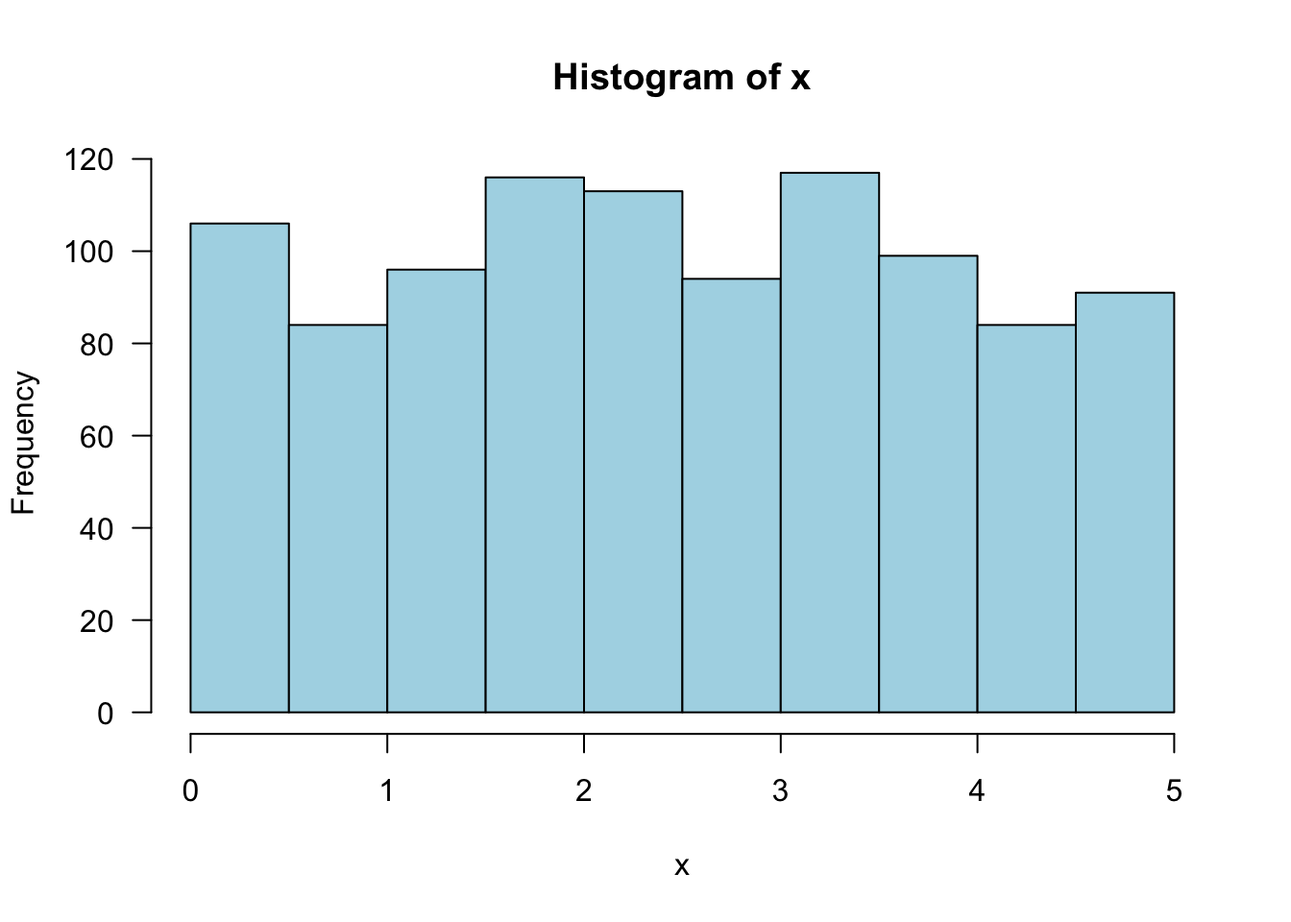
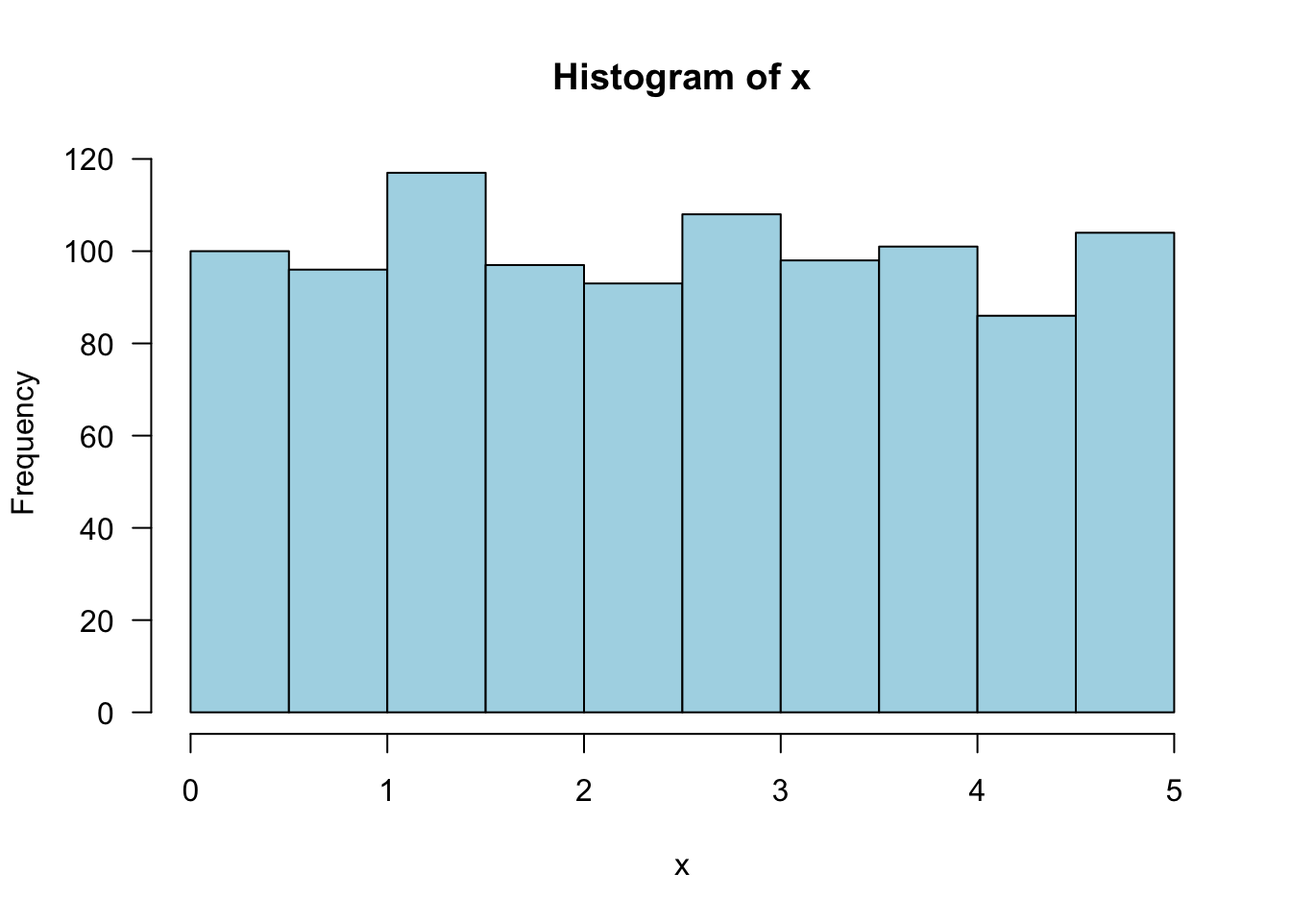
jtr13 published a site update

Changed region(s): [[0.125, 0.1875, 0.7812, 0.375], [0.75, 0.25, 0.9375, 0.375]]

diff --git a/index.html b/index.html
@@ -138,11 +138,11 @@ code span.wa { color: #60a0b0; font-weight: bold; font-style: italic; } /* Warni
 <li class="chapter" data-level="" data-path="index.html"><a href="index.html#general-study-tips"><i class="fa fa-check"></i>General study tips</a></li>
 <li class="chapter" data-level="" data-path="index.html"><a href="index.html#installing-r"><i class="fa fa-check"></i>Installing R</a></li>
 <li class="chapter" data-level="" data-path="index.html"><a href="index.html#getting-started-with-r-working-in-the-console"><i class="fa fa-check"></i>Getting Started with R: Working in the Console</a><ul>
-<li class="chapter" data-level="0.0.1" data-path="index.html"><a href="index.html#watch-the-video"><i class="fa fa-check"></i><b>0.0.1</b> Watch the video</a></li>
-<li class="chapter" data-level="0.0.2" data-path="index.html"><a href="index.html#quick-review-of-material-covered-in-the-video-plus-additional-examples"><i class="fa fa-check"></i><b>0.0.2</b> Quick review of material covered in the video, plus additional examples</a></li>
-<li class="chapter" data-level="0.0.3" data-path="index.html"><a href="index.html#more-examples"><i class="fa fa-check"></i><b>0.0.3</b> More examples</a></li>
+<li class="chapter" data-level="" data-path="index.html"><a href="index.html#watch-the-video"><i class="fa fa-check"></i>Watch the video</a></li>
+<li class="chapter" data-level="" data-path="index.html"><a href="index.html#quick-review-of-material-covered-in-the-video-plus-additional-examples"><i class="fa fa-check"></i>Quick review of material covered in the video, plus additional examples</a></li>
+<li class="chapter" data-level="" data-path="index.html"><a href="index.html#more-examples"><i class="fa fa-check"></i>More examples</a></li>
 </ul></li>
-<li class="chapter" data-level="0.1" data-path="index.html"><a href="index.html#saving-your-work"><i class="fa fa-check"></i><b>0.1</b> Saving your work</a><ul>
+<li class="chapter" data-level="" data-path="index.html"><a href="index.html#saving-your-work"><i class="fa fa-check"></i>Saving your work</a><ul>
 <li class="chapter" data-level="" data-path="index.html"><a href="index.html#saving-code-as-an-.r-file"><i class="fa fa-check"></i>Saving code as an .R file</a></li>
 <li class="chapter" data-level="" data-path="index.html"><a href="index.html#convert-.r-file-to-.html"><i class="fa fa-check"></i>Convert .R file to .html</a></li>
 <li class="chapter" data-level="" data-path="index.html"><a href="index.html#save-code-and-text-as-.rmd-convert-to-.html"><i class="fa fa-check"></i>Save code and text as .Rmd, convert to .html</a></li>
@@ -308,13 +308,13 @@ code span.wa { color: #60a0b0; font-weight: bold; font-style: italic; } /* Warni
 <div id="getting-started-with-r-working-in-the-console" class="section level2 unnumbered">
 <h2>Getting Started with R: Working in the Console</h2>
 <p>The first step in getting started is getting comfortable working in the RStudio console. It works like a calculator in the sense that your work is not saved. Do the following:</p>
-<div id="watch-the-video" class="section level3">
-<h3><span class="header-section-number">0.0.1</span> Watch the video</h3>
+<div id="watch-the-video" class="section level3 unnumbered">
+<h3>Watch the video</h3>
 <iframe width="560" height="315" src="https://www.youtube.com/embed/tQvtYdLvSSg" frameborder="0" allow="accelerometer; autoplay; encrypted-media; gyroscope; picture-in-picture" allowfullscreen>
 </iframe>
 </div>
-<div id="quick-review-of-material-covered-in-the-video-plus-additional-examples" class="section level3">
-<h3><span class="header-section-number">0.0.2</span> Quick review of material covered in the video, plus additional examples</h3>
+<div id="quick-review-of-material-covered-in-the-video-plus-additional-examples" class="section level3 unnumbered">
+<h3>Quick review of material covered in the video, plus additional examples</h3>
 <p>Working in the console pane is similar to a using a calculator: each line of code is executed when you press enter. Note that your work is not saved with this approach.</p>
 <p><img src="images/R1.png" /></p>
 <p>Assigning a variable</p>
@@ -349,13 +349,13 @@ code span.wa { color: #60a0b0; font-weight: bold; font-style: italic; } /* Warni
 <div class="sourceCode" id="cb21"><pre class="sourceCode r"><code class="sourceCode r"><span id="cb21-1"><a href="index.html#cb21-1"></a><span class="kw">sum</span>(x<span class="op">*</span>px)</span></code></pre></div>
 <pre><code>## [1] 3.5</code></pre>
 </div>
-<div id="more-examples" class="section level3">
-<h3><span class="header-section-number">0.0.3</span> More examples</h3>
+<div id="more-examples" class="section level3 unnumbered">
+<h3>More examples</h3>
 <p>Read and try the examples in <a href="https://monashdatafluency.github.io/r-intro-2/starting-out-in-r.html" target="_blank">Chapter 1 of Introduction to R</a></p>
 </div>
 </div>
-<div id="saving-your-work" class="section level2">
-<h2><span class="header-section-number">0.1</span> Saving your work</h2>
+<div id="saving-your-work" class="section level2 unnumbered">
+<h2>Saving your work</h2>
 <div id="saving-code-as-an-.r-file" class="section level3 unnumbered">
 <h3>Saving code as an .R file</h3>
 <p><strong>Video</strong></p>

diff --git a/ch-4-continuous-random-variables-and-probability-distributions.html b/ch-4-continuous-random-variables-and-probability-distributions.html
@@ -138,11 +138,11 @@ code span.wa { color: #60a0b0; font-weight: bold; font-style: italic; } /* Warni
 <li class="chapter" data-level="" data-path="index.html"><a href="index.html#general-study-tips"><i class="fa fa-check"></i>General study tips</a></li>
 <li class="chapter" data-level="" data-path="index.html"><a href="index.html#installing-r"><i class="fa fa-check"></i>Installing R</a></li>
 <li class="chapter" data-level="" data-path="index.html"><a href="index.html#getting-started-with-r-working-in-the-console"><i class="fa fa-check"></i>Getting Started with R: Working in the Console</a><ul>
-<li class="chapter" data-level="0.0.1" data-path="index.html"><a href="index.html#watch-the-video"><i class="fa fa-check"></i><b>0.0.1</b> Watch the video</a></li>
-<li class="chapter" data-level="0.0.2" data-path="index.html"><a href="index.html#quick-review-of-material-covered-in-the-video-plus-additional-examples"><i class="fa fa-check"></i><b>0.0.2</b> Quick review of material covered in the video, plus additional examples</a></li>
-<li class="chapter" data-level="0.0.3" data-path="index.html"><a href="index.html#more-examples"><i class="fa fa-check"></i><b>0.0.3</b> More examples</a></li>
+<li class="chapter" data-level="" data-path="index.html"><a href="index.html#watch-the-video"><i class="fa fa-check"></i>Watch the video</a></li>
+<li class="chapter" data-level="" data-path="index.html"><a href="index.html#quick-review-of-material-covered-in-the-video-plus-additional-examples"><i class="fa fa-check"></i>Quick review of material covered in the video, plus additional examples</a></li>
+<li class="chapter" data-level="" data-path="index.html"><a href="index.html#more-examples"><i class="fa fa-check"></i>More examples</a></li>
 </ul></li>
-<li class="chapter" data-level="0.1" data-path="index.html"><a href="index.html#saving-your-work"><i class="fa fa-check"></i><b>0.1</b> Saving your work</a><ul>
+<li class="chapter" data-level="" data-path="index.html"><a href="index.html#saving-your-work"><i class="fa fa-check"></i>Saving your work</a><ul>
 <li class="chapter" data-level="" data-path="index.html"><a href="index.html#saving-code-as-an-.r-file"><i class="fa fa-check"></i>Saving code as an .R file</a></li>
 <li class="chapter" data-level="" data-path="index.html"><a href="index.html#convert-.r-file-to-.html"><i class="fa fa-check"></i>Convert .R file to .html</a></li>
 <li class="chapter" data-level="" data-path="index.html"><a href="index.html#save-code-and-text-as-.rmd-convert-to-.html"><i class="fa fa-check"></i>Save code and text as .Rmd, convert to .html</a></li>
@@ -275,11 +275,11 @@ code span.wa { color: #60a0b0; font-weight: bold; font-style: italic; } /* Warni
 <p>Randomly choose one number from the distribution:</p>
 <p><span class="math inline">\(f(x) = .2\)</span> for <span class="math inline">\(0 \leq x \leq 5\)</span>, 0 otherwise.</p>
 <div class="sourceCode" id="cb149"><pre class="sourceCode r"><code class="sourceCode r"><span id="cb149-1"><a href="ch-4-continuous-random-variables-and-probability-distributions.html#cb149-1"></a><span class="kw">runif</span>(<span class="dt">n =</span> <span class="dv">1</span>, <span class="dt">min =</span> <span class="dv">0</span>, <span class="dt">max =</span> <span class="dv">5</span>)</span></code></pre></div>
-<pre><code>## [1] 4.080253</code></pre>
+<pre><code>## [1] 4.563227</code></pre>
 <p>Take the average of 1000 picks:</p>
 <div class="sourceCode" id="cb151"><pre class="sourceCode r"><code class="sourceCode r"><span id="cb151-1"><a href="ch-4-continuous-random-variables-and-probability-distributions.html#cb151-1"></a>x &lt;-<span class="st"> </span><span class="kw">runif</span>(<span class="dt">n =</span> <span class="dv">1000</span>, <span class="dt">min =</span> <span class="dv">0</span>, <span class="dt">max =</span> <span class="dv">5</span>)</span>
 <span id="cb151-2"><a href="ch-4-continuous-random-variables-and-probability-distributions.html#cb151-2"></a><span class="kw">mean</span>(x)</span></code></pre></div>
-<pre><code>## [1] 2.464531</code></pre>
+<pre><code>## [1] 2.478542</code></pre>
 <p>Draw a histogram of the 1000 picks:</p>
 <div class="sourceCode" id="cb153"><pre class="sourceCode r"><code class="sourceCode r"><span id="cb153-1"><a href="ch-4-continuous-random-variables-and-probability-distributions.html#cb153-1"></a><span class="kw">hist</span>(x, <span class="dt">las =</span> <span class="dv">1</span>, <span class="dt">col =</span> <span class="st">&quot;lightblue&quot;</span>)</span></code></pre></div>
 <p><img src="STAT1201-resource_files/figure-html/unnamed-chunk-41-1.png" width="672" /></p>

diff --git a/ch-1-descriptive-statistics.html b/ch-1-descriptive-statistics.html
@@ -138,11 +138,11 @@ code span.wa { color: #60a0b0; font-weight: bold; font-style: italic; } /* Warni
 <li class="chapter" data-level="" data-path="index.html"><a href="index.html#general-study-tips"><i class="fa fa-check"></i>General study tips</a></li>
 <li class="chapter" data-level="" data-path="index.html"><a href="index.html#installing-r"><i class="fa fa-check"></i>Installing R</a></li>
 <li class="chapter" data-level="" data-path="index.html"><a href="index.html#getting-started-with-r-working-in-the-console"><i class="fa fa-check"></i>Getting Started with R: Working in the Console</a><ul>
-<li class="chapter" data-level="0.0.1" data-path="index.html"><a href="index.html#watch-the-video"><i class="fa fa-check"></i><b>0.0.1</b> Watch the video</a></li>
-<li class="chapter" data-level="0.0.2" data-path="index.html"><a href="index.html#quick-review-of-material-covered-in-the-video-plus-additional-examples"><i class="fa fa-check"></i><b>0.0.2</b> Quick review of material covered in the video, plus additional examples</a></li>
-<li class="chapter" data-level="0.0.3" data-path="index.html"><a href="index.html#more-examples"><i class="fa fa-check"></i><b>0.0.3</b> More examples</a></li>
+<li class="chapter" data-level="" data-path="index.html"><a href="index.html#watch-the-video"><i class="fa fa-check"></i>Watch the video</a></li>
+<li class="chapter" data-level="" data-path="index.html"><a href="index.html#quick-review-of-material-covered-in-the-video-plus-additional-examples"><i class="fa fa-check"></i>Quick review of material covered in the video, plus additional examples</a></li>
+<li class="chapter" data-level="" data-path="index.html"><a href="index.html#more-examples"><i class="fa fa-check"></i>More examples</a></li>
 </ul></li>
-<li class="chapter" data-level="0.1" data-path="index.html"><a href="index.html#saving-your-work"><i class="fa fa-check"></i><b>0.1</b> Saving your work</a><ul>
+<li class="chapter" data-level="" data-path="index.html"><a href="index.html#saving-your-work"><i class="fa fa-check"></i>Saving your work</a><ul>
 <li class="chapter" data-level="" data-path="index.html"><a href="index.html#saving-code-as-an-.r-file"><i class="fa fa-check"></i>Saving code as an .R file</a></li>
 <li class="chapter" data-level="" data-path="index.html"><a href="index.html#convert-.r-file-to-.html"><i class="fa fa-check"></i>Convert .R file to .html</a></li>
 <li class="chapter" data-level="" data-path="index.html"><a href="index.html#save-code-and-text-as-.rmd-convert-to-.html"><i class="fa fa-check"></i>Save code and text as .Rmd, convert to .html</a></li>

diff --git a/ch-12-linear-regression.html b/ch-12-linear-regression.html
@@ -138,11 +138,11 @@ code span.wa { color: #60a0b0; font-weight: bold; font-style: italic; } /* Warni
 <li class="chapter" data-level="" data-path="index.html"><a href="index.html#general-study-tips"><i class="fa fa-check"></i>General study tips</a></li>
 <li class="chapter" data-level="" data-path="index.html"><a href="index.html#installing-r"><i class="fa fa-check"></i>Installing R</a></li>
 <li class="chapter" data-level="" data-path="index.html"><a href="index.html#getting-started-with-r-working-in-the-console"><i class="fa fa-check"></i>Getting Started with R: Working in the Console</a><ul>
-<li class="chapter" data-level="0.0.1" data-path="index.html"><a href="index.html#watch-the-video"><i class="fa fa-check"></i><b>0.0.1</b> Watch the video</a></li>
-<li class="chapter" data-level="0.0.2" data-path="index.html"><a href="index.html#quick-review-of-material-covered-in-the-video-plus-additional-examples"><i class="fa fa-check"></i><b>0.0.2</b> Quick review of material covered in the video, plus additional examples</a></li>
-<li class="chapter" data-level="0.0.3" data-path="index.html"><a href="index.html#more-examples"><i class="fa fa-check"></i><b>0.0.3</b> More examples</a></li>
+<li class="chapter" data-level="" data-path="index.html"><a href="index.html#watch-the-video"><i class="fa fa-check"></i>Watch the video</a></li>
+<li class="chapter" data-level="" data-path="index.html"><a href="index.html#quick-review-of-material-covered-in-the-video-plus-additional-examples"><i class="fa fa-check"></i>Quick review of material covered in the video, plus additional examples</a></li>
+<li class="chapter" data-level="" data-path="index.html"><a href="index.html#more-examples"><i class="fa fa-check"></i>More examples</a></li>
 </ul></li>
-<li class="chapter" data-level="0.1" data-path="index.html"><a href="index.html#saving-your-work"><i class="fa fa-check"></i><b>0.1</b> Saving your work</a><ul>
+<li class="chapter" data-level="" data-path="index.html"><a href="index.html#saving-your-work"><i class="fa fa-check"></i>Saving your work</a><ul>
 <li class="chapter" data-level="" data-path="index.html"><a href="index.html#saving-code-as-an-.r-file"><i class="fa fa-check"></i>Saving code as an .R file</a></li>
 <li class="chapter" data-level="" data-path="index.html"><a href="index.html#convert-.r-file-to-.html"><i class="fa fa-check"></i>Convert .R file to .html</a></li>
 <li class="chapter" data-level="" data-path="index.html"><a href="index.html#save-code-and-text-as-.rmd-convert-to-.html"><i class="fa fa-check"></i>Save code and text as .Rmd, convert to .html</a></li>

diff --git a/ch-2-conditional-probability.html b/ch-2-conditional-probability.html
@@ -138,11 +138,11 @@ code span.wa { color: #60a0b0; font-weight: bold; font-style: italic; } /* Warni
 <li class="chapter" data-level="" data-path="index.html"><a href="index.html#general-study-tips"><i class="fa fa-check"></i>General study tips</a></li>
 <li class="chapter" data-level="" data-path="index.html"><a href="index.html#installing-r"><i class="fa fa-check"></i>Installing R</a></li>
 <li class="chapter" data-level="" data-path="index.html"><a href="index.html#getting-started-with-r-working-in-the-console"><i class="fa fa-check"></i>Getting Started with R: Working in the Console</a><ul>
-<li class="chapter" data-level="0.0.1" data-path="index.html"><a href="index.html#watch-the-video"><i class="fa fa-check"></i><b>0.0.1</b> Watch the video</a></li>
-<li class="chapter" data-level="0.0.2" data-path="index.html"><a href="index.html#quick-review-of-material-covered-in-the-video-plus-additional-examples"><i class="fa fa-check"></i><b>0.0.2</b> Quick review of material covered in the video, plus additional examples</a></li>
-<li class="chapter" data-level="0.0.3" data-path="index.html"><a href="index.html#more-examples"><i class="fa fa-check"></i><b>0.0.3</b> More examples</a></li>
+<li class="chapter" data-level="" data-path="index.html"><a href="index.html#watch-the-video"><i class="fa fa-check"></i>Watch the video</a></li>
+<li class="chapter" data-level="" data-path="index.html"><a href="index.html#quick-review-of-material-covered-in-the-video-plus-additional-examples"><i class="fa fa-check"></i>Quick review of material covered in the video, plus additional examples</a></li>
+<li class="chapter" data-level="" data-path="index.html"><a href="index.html#more-examples"><i class="fa fa-check"></i>More examples</a></li>
 </ul></li>
-<li class="chapter" data-level="0.1" data-path="index.html"><a href="index.html#saving-your-work"><i class="fa fa-check"></i><b>0.1</b> Saving your work</a><ul>
+<li class="chapter" data-level="" data-path="index.html"><a href="index.html#saving-your-work"><i class="fa fa-check"></i>Saving your work</a><ul>
 <li class="chapter" data-level="" data-path="index.html"><a href="index.html#saving-code-as-an-.r-file"><i class="fa fa-check"></i>Saving code as an .R file</a></li>
 <li class="chapter" data-level="" data-path="index.html"><a href="index.html#convert-.r-file-to-.html"><i class="fa fa-check"></i>Convert .R file to .html</a></li>
 <li class="chapter" data-level="" data-path="index.html"><a href="index.html#save-code-and-text-as-.rmd-convert-to-.html"><i class="fa fa-check"></i>Save code and text as .Rmd, convert to .html</a></li>

diff --git a/ch-2-probability.html b/ch-2-probability.html
@@ -138,11 +138,11 @@ code span.wa { color: #60a0b0; font-weight: bold; font-style: italic; } /* Warni
 <li class="chapter" data-level="" data-path="index.html"><a href="index.html#general-study-tips"><i class="fa fa-check"></i>General study tips</a></li>
 <li class="chapter" data-level="" data-path="index.html"><a href="index.html#installing-r"><i class="fa fa-check"></i>Installing R</a></li>
 <li class="chapter" data-level="" data-path="index.html"><a href="index.html#getting-started-with-r-working-in-the-console"><i class="fa fa-check"></i>Getting Started with R: Working in the Console</a><ul>
-<li class="chapter" data-level="0.0.1" data-path="index.html"><a href="index.html#watch-the-video"><i class="fa fa-check"></i><b>0.0.1</b> Watch the video</a></li>
-<li class="chapter" data-level="0.0.2" data-path="index.html"><a href="index.html#quick-review-of-material-covered-in-the-video-plus-additional-examples"><i class="fa fa-check"></i><b>0.0.2</b> Quick review of material covered in the video, plus additional examples</a></li>
-<li class="chapter" data-level="0.0.3" data-path="index.html"><a href="index.html#more-examples"><i class="fa fa-check"></i><b>0.0.3</b> More examples</a></li>
+<li class="chapter" data-level="" data-path="index.html"><a href="index.html#watch-the-video"><i class="fa fa-check"></i>Watch the video</a></li>
+<li class="chapter" data-level="" data-path="index.html"><a href="index.html#quick-review-of-material-covered-in-the-video-plus-additional-examples"><i class="fa fa-check"></i>Quick review of material covered in the video, plus additional examples</a></li>
+<li class="chapter" data-level="" data-path="index.html"><a href="index.html#more-examples"><i class="fa fa-check"></i>More examples</a></li>
 </ul></li>
-<li class="chapter" data-level="0.1" data-path="index.html"><a href="index.html#saving-your-work"><i class="fa fa-check"></i><b>0.1</b> Saving your work</a><ul>
+<li class="chapter" data-level="" data-path="index.html"><a href="index.html#saving-your-work"><i class="fa fa-check"></i>Saving your work</a><ul>
 <li class="chapter" data-level="" data-path="index.html"><a href="index.html#saving-code-as-an-.r-file"><i class="fa fa-check"></i>Saving code as an .R file</a></li>
 <li class="chapter" data-level="" data-path="index.html"><a href="index.html#convert-.r-file-to-.html"><i class="fa fa-check"></i>Convert .R file to .html</a></li>
 <li class="chapter" data-level="" data-path="index.html"><a href="index.html#save-code-and-text-as-.rmd-convert-to-.html"><i class="fa fa-check"></i>Save code and text as .Rmd, convert to .html</a></li>

diff --git a/ch-3-discrete-distributions.html b/ch-3-discrete-distributions.html
@@ -138,11 +138,11 @@ code span.wa { color: #60a0b0; font-weight: bold; font-style: italic; } /* Warni
 <li class="chapter" data-level="" data-path="index.html"><a href="index.html#general-study-tips"><i class="fa fa-check"></i>General study tips</a></li>
 <li class="chapter" data-level="" data-path="index.html"><a href="index.html#installing-r"><i class="fa fa-check"></i>Installing R</a></li>
 <li class="chapter" data-level="" data-path="index.html"><a href="index.html#getting-started-with-r-working-in-the-console"><i class="fa fa-check"></i>Getting Started with R: Working in the Console</a><ul>
-<li class="chapter" data-level="0.0.1" data-path="index.html"><a href="index.html#watch-the-video"><i class="fa fa-check"></i><b>0.0.1</b> Watch the video</a></li>
-<li class="chapter" data-level="0.0.2" data-path="index.html"><a href="index.html#quick-review-of-material-covered-in-the-video-plus-additional-examples"><i class="fa fa-check"></i><b>0.0.2</b> Quick review of material covered in the video, plus additional examples</a></li>
-<li class="chapter" data-level="0.0.3" data-path="index.html"><a href="index.html#more-examples"><i class="fa fa-check"></i><b>0.0.3</b> More examples</a></li>
+<li class="chapter" data-level="" data-path="index.html"><a href="index.html#watch-the-video"><i class="fa fa-check"></i>Watch the video</a></li>
+<li class="chapter" data-level="" data-path="index.html"><a href="index.html#quick-review-of-material-covered-in-the-video-plus-additional-examples"><i class="fa fa-check"></i>Quick review of material covered in the video, plus additional examples</a></li>
+<li class="chapter" data-level="" data-path="index.html"><a href="index.html#more-examples"><i class="fa fa-check"></i>More examples</a></li>
 </ul></li>
-<li class="chapter" data-level="0.1" data-path="index.html"><a href="index.html#saving-your-work"><i class="fa fa-check"></i><b>0.1</b> Saving your work</a><ul>
+<li class="chapter" data-level="" data-path="index.html"><a href="index.html#saving-your-work"><i class="fa fa-check"></i>Saving your work</a><ul>
 <li class="chapter" data-level="" data-path="index.html"><a href="index.html#saving-code-as-an-.r-file"><i class="fa fa-check"></i>Saving code as an .R file</a></li>
 <li class="chapter" data-level="" data-path="index.html"><a href="index.html#convert-.r-file-to-.html"><i class="fa fa-check"></i>Convert .R file to .html</a></li>
 <li class="chapter" data-level="" data-path="index.html"><a href="index.html#save-code-and-text-as-.rmd-convert-to-.html"><i class="fa fa-check"></i>Save code and text as .Rmd, convert to .html</a></li>

diff --git a/ch-5-joint-probability.html b/ch-5-joint-probability.html
@@ -138,11 +138,11 @@ code span.wa { color: #60a0b0; font-weight: bold; font-style: italic; } /* Warni
 <li class="chapter" data-level="" data-path="index.html"><a href="index.html#general-study-tips"><i class="fa fa-check"></i>General study tips</a></li>
 <li class="chapter" data-level="" data-path="index.html"><a href="index.html#installing-r"><i class="fa fa-check"></i>Installing R</a></li>
 <li class="chapter" data-level="" data-path="index.html"><a href="index.html#getting-started-with-r-working-in-the-console"><i class="fa fa-check"></i>Getting Started with R: Working in the Console</a><ul>
-<li class="chapter" data-level="0.0.1" data-path="index.html"><a href="index.html#watch-the-video"><i class="fa fa-check"></i><b>0.0.1</b> Watch the video</a></li>
-<li class="chapter" data-level="0.0.2" data-path="index.html"><a href="index.html#quick-review-of-material-covered-in-the-video-plus-additional-examples"><i class="fa fa-check"></i><b>0.0.2</b> Quick review of material covered in the video, plus additional examples</a></li>
-<li class="chapter" data-level="0.0.3" data-path="index.html"><a href="index.html#more-examples"><i class="fa fa-check"></i><b>0.0.3</b> More examples</a></li>
+<li class="chapter" data-level="" data-path="index.html"><a href="index.html#watch-the-video"><i class="fa fa-check"></i>Watch the video</a></li>
+<li class="chapter" data-level="" data-path="index.html"><a href="index.html#quick-review-of-material-covered-in-the-video-plus-additional-examples"><i class="fa fa-check"></i>Quick review of material covered in the video, plus additional examples</a></li>
+<li class="chapter" data-level="" data-path="index.html"><a href="index.html#more-examples"><i class="fa fa-check"></i>More examples</a></li>
 </ul></li>
-<li class="chapter" data-level="0.1" data-path="index.html"><a href="index.html#saving-your-work"><i class="fa fa-check"></i><b>0.1</b> Saving your work</a><ul>
+<li class="chapter" data-level="" data-path="index.html"><a href="index.html#saving-your-work"><i class="fa fa-check"></i>Saving your work</a><ul>
 <li class="chapter" data-level="" data-path="index.html"><a href="index.html#saving-code-as-an-.r-file"><i class="fa fa-check"></i>Saving code as an .R file</a></li>
 <li class="chapter" data-level="" data-path="index.html"><a href="index.html#convert-.r-file-to-.html"><i class="fa fa-check"></i>Convert .R file to .html</a></li>
 <li class="chapter" data-level="" data-path="index.html"><a href="index.html#save-code-and-text-as-.rmd-convert-to-.html"><i class="fa fa-check"></i>Save code and text as .Rmd, convert to .html</a></li>

diff --git a/ch-5-random-samples.html b/ch-5-random-samples.html
@@ -138,11 +138,11 @@ code span.wa { color: #60a0b0; font-weight: bold; font-style: italic; } /* Warni
 <li class="chapter" data-level="" data-path="index.html"><a href="index.html#general-study-tips"><i class="fa fa-check"></i>General study tips</a></li>
 <li class="chapter" data-level="" data-path="index.html"><a href="index.html#installing-r"><i class="fa fa-check"></i>Installing R</a></li>
 <li class="chapter" data-level="" data-path="index.html"><a href="index.html#getting-started-with-r-working-in-the-console"><i class="fa fa-check"></i>Getting Started with R: Working in the Console</a><ul>
-<li class="chapter" data-level="0.0.1" data-path="index.html"><a href="index.html#watch-the-video"><i class="fa fa-check"></i><b>0.0.1</b> Watch the video</a></li>
-<li class="chapter" data-level="0.0.2" data-path="index.html"><a href="index.html#quick-review-of-material-covered-in-the-video-plus-additional-examples"><i class="fa fa-check"></i><b>0.0.2</b> Quick review of material covered in the video, plus additional examples</a></li>
-<li class="chapter" data-level="0.0.3" data-path="index.html"><a href="index.html#more-examples"><i class="fa fa-check"></i><b>0.0.3</b> More examples</a></li>
+<li class="chapter" data-level="" data-path="index.html"><a href="index.html#watch-the-video"><i class="fa fa-check"></i>Watch the video</a></li>
+<li class="chapter" data-level="" data-path="index.html"><a href="index.html#quick-review-of-material-covered-in-the-video-plus-additional-examples"><i class="fa fa-check"></i>Quick review of material covered in the video, plus additional examples</a></li>
+<li class="chapter" data-level="" data-path="index.html"><a href="index.html#more-examples"><i class="fa fa-check"></i>More examples</a></li>
 </ul></li>
-<li class="chapter" data-level="0.1" data-path="index.html"><a href="index.html#saving-your-work"><i class="fa fa-check"></i><b>0.1</b> Saving your work</a><ul>
+<li class="chapter" data-level="" data-path="index.html"><a href="index.html#saving-your-work"><i class="fa fa-check"></i>Saving your work</a><ul>
 <li class="chapter" data-level="" data-path="index.html"><a href="index.html#saving-code-as-an-.r-file"><i class="fa fa-check"></i>Saving code as an .R file</a></li>
 <li class="chapter" data-level="" data-path="index.html"><a href="index.html#convert-.r-file-to-.html"><i class="fa fa-check"></i>Convert .R file to .html</a></li>
 <li class="chapter" data-level="" data-path="index.html"><a href="index.html#save-code-and-text-as-.rmd-convert-to-.html"><i class="fa fa-check"></i>Save code and text as .Rmd, convert to .html</a></li>

diff --git a/ch-6-point-estimation.html b/ch-6-point-estimation.html
@@ -138,11 +138,11 @@ code span.wa { color: #60a0b0; font-weight: bold; font-style: italic; } /* Warni
 <li class="chapter" data-level="" data-path="index.html"><a href="index.html#general-study-tips"><i class="fa fa-check"></i>General study tips</a></li>
 <li class="chapter" data-level="" data-path="index.html"><a href="index.html#installing-r"><i class="fa fa-check"></i>Installing R</a></li>
 <li class="chapter" data-level="" data-path="index.html"><a href="index.html#getting-started-with-r-working-in-the-console"><i class="fa fa-check"></i>Getting Started with R: Working in the Console</a><ul>
-<li class="chapter" data-level="0.0.1" data-path="index.html"><a href="index.html#watch-the-video"><i class="fa fa-check"></i><b>0.0.1</b> Watch the video</a></li>
-<li class="chapter" data-level="0.0.2" data-path="index.html"><a href="index.html#quick-review-of-material-covered-in-the-video-plus-additional-examples"><i class="fa fa-check"></i><b>0.0.2</b> Quick review of material covered in the video, plus additional examples</a></li>
-<li class="chapter" data-level="0.0.3" data-path="index.html"><a href="index.html#more-examples"><i class="fa fa-check"></i><b>0.0.3</b> More examples</a></li>
+<li class="chapter" data-level="" data-path="index.html"><a href="index.html#watch-the-video"><i class="fa fa-check"></i>Watch the video</a></li>
+<li class="chapter" data-level="" data-path="index.html"><a href="index.html#quick-review-of-material-covered-in-the-video-plus-additional-examples"><i class="fa fa-check"></i>Quick review of material covered in the video, plus additional examples</a></li>
+<li class="chapter" data-level="" data-path="index.html"><a href="index.html#more-examples"><i class="fa fa-check"></i>More examples</a></li>
 </ul></li>
-<li class="chapter" data-level="0.1" data-path="index.html"><a href="index.html#saving-your-work"><i class="fa fa-check"></i><b>0.1</b> Saving your work</a><ul>
+<li class="chapter" data-level="" data-path="index.html"><a href="index.html#saving-your-work"><i class="fa fa-check"></i>Saving your work</a><ul>
 <li class="chapter" data-level="" data-path="index.html"><a href="index.html#saving-code-as-an-.r-file"><i class="fa fa-check"></i>Saving code as an .R file</a></li>
 <li class="chapter" data-level="" data-path="index.html"><a href="index.html#convert-.r-file-to-.html"><i class="fa fa-check"></i>Convert .R file to .html</a></li>
 <li class="chapter" data-level="" data-path="index.html"><a href="index.html#save-code-and-text-as-.rmd-convert-to-.html"><i class="fa fa-check"></i>Save code and text as .Rmd, convert to .html</a></li>

diff --git a/ch-7-statistical-intervals-based-on-a-single-sample.html b/ch-7-statistical-intervals-based-on-a-single-sample.html
@@ -138,11 +138,11 @@ code span.wa { color: #60a0b0; font-weight: bold; font-style: italic; } /* Warni
 <li class="chapter" data-level="" data-path="index.html"><a href="index.html#general-study-tips"><i class="fa fa-check"></i>General study tips</a></li>
 <li class="chapter" data-level="" data-path="index.html"><a href="index.html#installing-r"><i class="fa fa-check"></i>Installing R</a></li>
 <li class="chapter" data-level="" data-path="index.html"><a href="index.html#getting-started-with-r-working-in-the-console"><i class="fa fa-check"></i>Getting Started with R: Working in the Console</a><ul>
-<li class="chapter" data-level="0.0.1" data-path="index.html"><a href="index.html#watch-the-video"><i class="fa fa-check"></i><b>0.0.1</b> Watch the video</a></li>
-<li class="chapter" data-level="0.0.2" data-path="index.html"><a href="index.html#quick-review-of-material-covered-in-the-video-plus-additional-examples"><i class="fa fa-check"></i><b>0.0.2</b> Quick review of material covered in the video, plus additional examples</a></li>
-<li class="chapter" data-level="0.0.3" data-path="index.html"><a href="index.html#more-examples"><i class="fa fa-check"></i><b>0.0.3</b> More examples</a></li>
+<li class="chapter" data-level="" data-path="index.html"><a href="index.html#watch-the-video"><i class="fa fa-check"></i>Watch the video</a></li>
+<li class="chapter" data-level="" data-path="index.html"><a href="index.html#quick-review-of-material-covered-in-the-video-plus-additional-examples"><i class="fa fa-check"></i>Quick review of material covered in the video, plus additional examples</a></li>
+<li class="chapter" data-level="" data-path="index.html"><a href="index.html#more-examples"><i class="fa fa-check"></i>More examples</a></li>
 </ul></li>
-<li class="chapter" data-level="0.1" data-path="index.html"><a href="index.html#saving-your-work"><i class="fa fa-check"></i><b>0.1</b> Saving your work</a><ul>
+<li class="chapter" data-level="" data-path="index.html"><a href="index.html#saving-your-work"><i class="fa fa-check"></i>Saving your work</a><ul>
 <li class="chapter" data-level="" data-path="index.html"><a href="index.html#saving-code-as-an-.r-file"><i class="fa fa-check"></i>Saving code as an .R file</a></li>
 <li class="chapter" data-level="" data-path="index.html"><a href="index.html#convert-.r-file-to-.html"><i class="fa fa-check"></i>Convert .R file to .html</a></li>
 <li class="chapter" data-level="" data-path="index.html"><a href="index.html#save-code-and-text-as-.rmd-convert-to-.html"><i class="fa fa-check"></i>Save code and text as .Rmd, convert to .html</a></li>

diff --git a/ch-8-tests-of-hypotheses-based-on-a-single-sample.html b/ch-8-tests-of-hypotheses-based-on-a-single-sample.html
@@ -138,11 +138,11 @@ code span.wa { color: #60a0b0; font-weight: bold; font-style: italic; } /* Warni
 <li class="chapter" data-level="" data-path="index.html"><a href="index.html#general-study-tips"><i class="fa fa-check"></i>General study tips</a></li>
 <li class="chapter" data-level="" data-path="index.html"><a href="index.html#installing-r"><i class="fa fa-check"></i>Installing R</a></li>
 <li class="chapter" data-level="" data-path="index.html"><a href="index.html#getting-started-with-r-working-in-the-console"><i class="fa fa-check"></i>Getting Started with R: Working in the Console</a><ul>
-<li class="chapter" data-level="0.0.1" data-path="index.html"><a href="index.html#watch-the-video"><i class="fa fa-check"></i><b>0.0.1</b> Watch the video</a></li>
-<li class="chapter" data-level="0.0.2" data-path="index.html"><a href="index.html#quick-review-of-material-covered-in-the-video-plus-additional-examples"><i class="fa fa-check"></i><b>0.0.2</b> Quick review of material covered in the video, plus additional examples</a></li>
-<li class="chapter" data-level="0.0.3" data-path="index.html"><a href="index.html#more-examples"><i class="fa fa-check"></i><b>0.0.3</b> More examples</a></li>
+<li class="chapter" data-level="" data-path="index.html"><a href="index.html#watch-the-video"><i class="fa fa-check"></i>Watch the video</a></li>
+<li class="chapter" data-level="" data-path="index.html"><a href="index.html#quick-review-of-material-covered-in-the-video-plus-additional-examples"><i class="fa fa-check"></i>Quick review of material covered in the video, plus additional examples</a></li>
+<li class="chapter" data-level="" data-path="index.html"><a href="index.html#more-examples"><i class="fa fa-check"></i>More examples</a></li>
 </ul></li>
-<li class="chapter" data-level="0.1" data-path="index.html"><a href="index.html#saving-your-work"><i class="fa fa-check"></i><b>0.1</b> Saving your work</a><ul>
+<li class="chapter" data-level="" data-path="index.html"><a href="index.html#saving-your-work"><i class="fa fa-check"></i>Saving your work</a><ul>
 <li class="chapter" data-level="" data-path="index.html"><a href="index.html#saving-code-as-an-.r-file"><i class="fa fa-check"></i>Saving code as an .R file</a></li>
 <li class="chapter" data-level="" data-path="index.html"><a href="index.html#convert-.r-file-to-.html"><i class="fa fa-check"></i>Convert .R file to .html</a></li>
 <li class="chapter" data-level="" data-path="index.html"><a href="index.html#save-code-and-text-as-.rmd-convert-to-.html"><i class="fa fa-check"></i>Save code and text as .Rmd, convert to .html</a></li>
